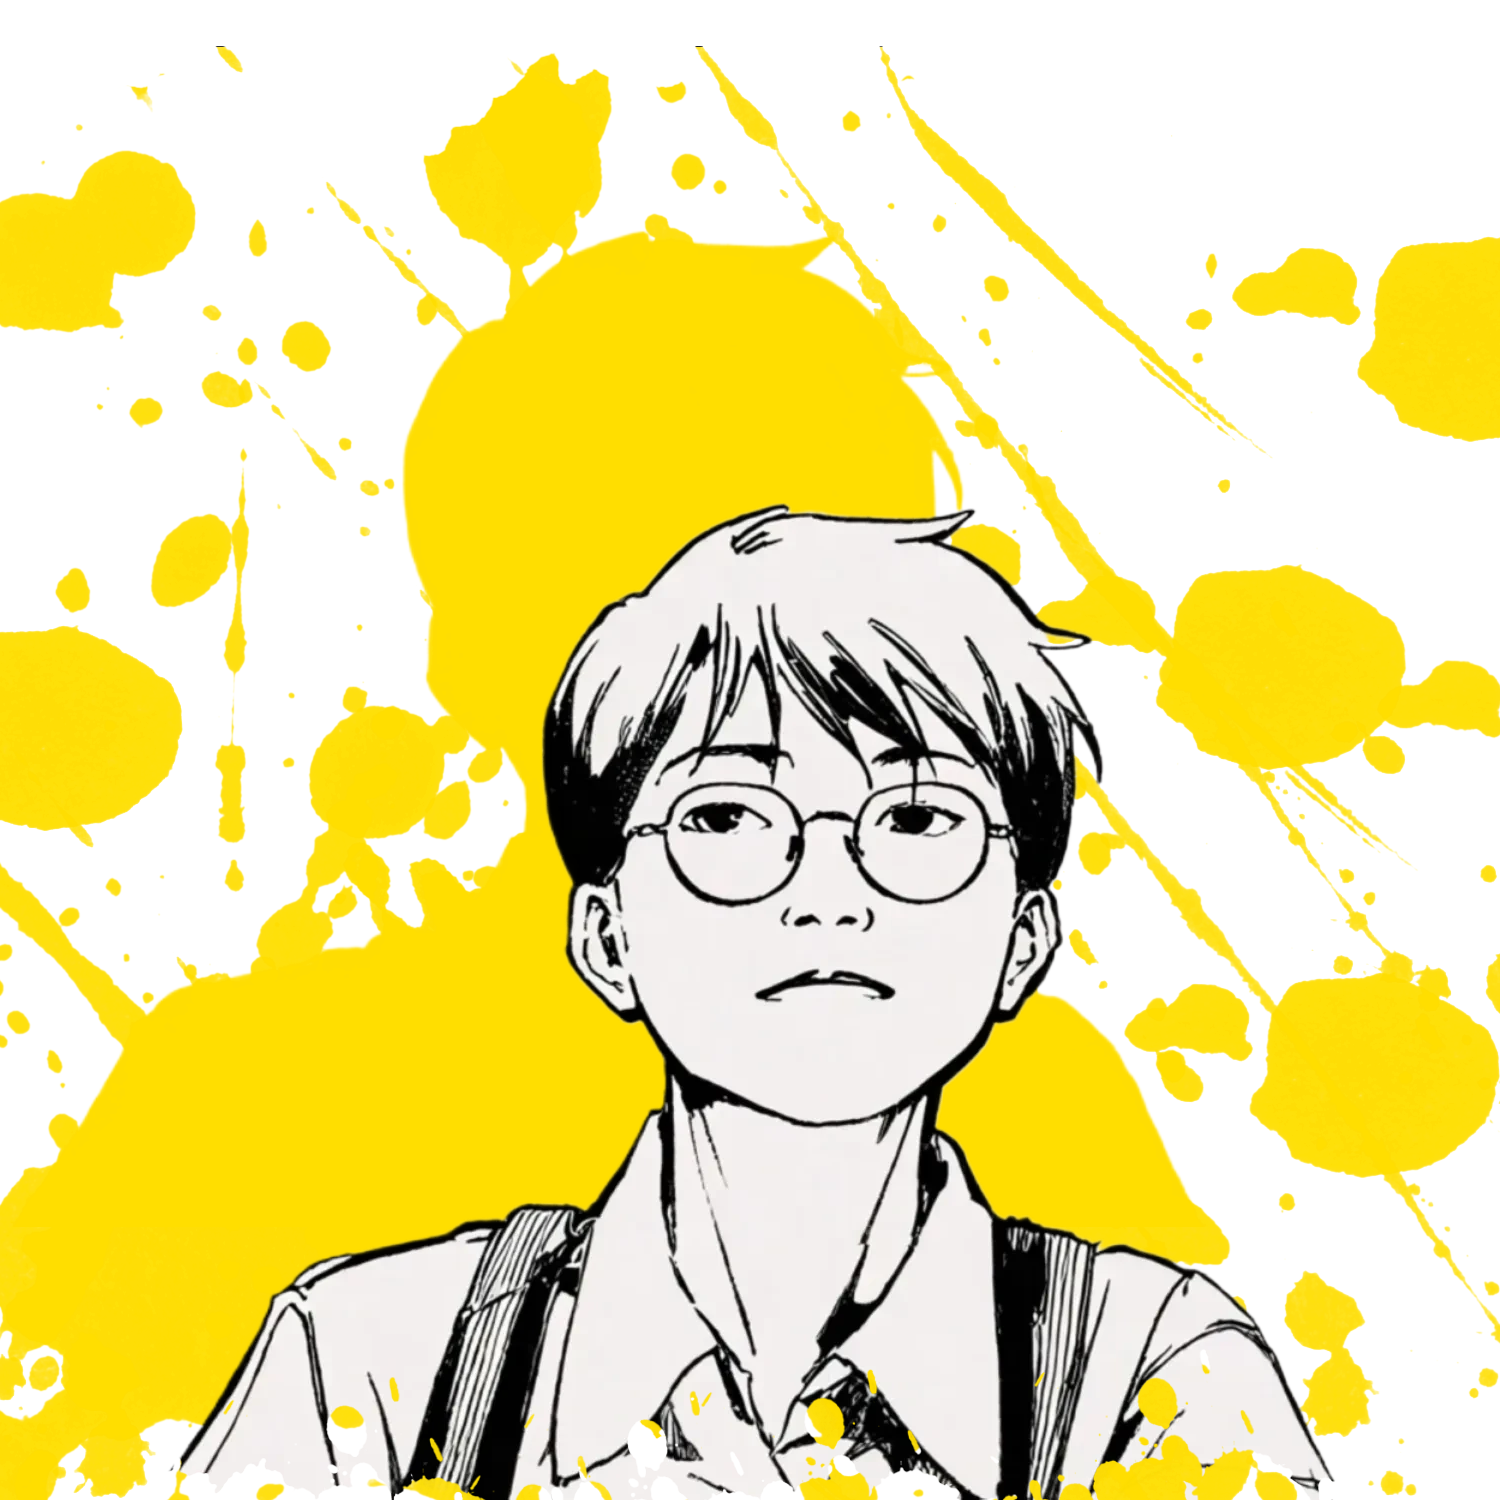
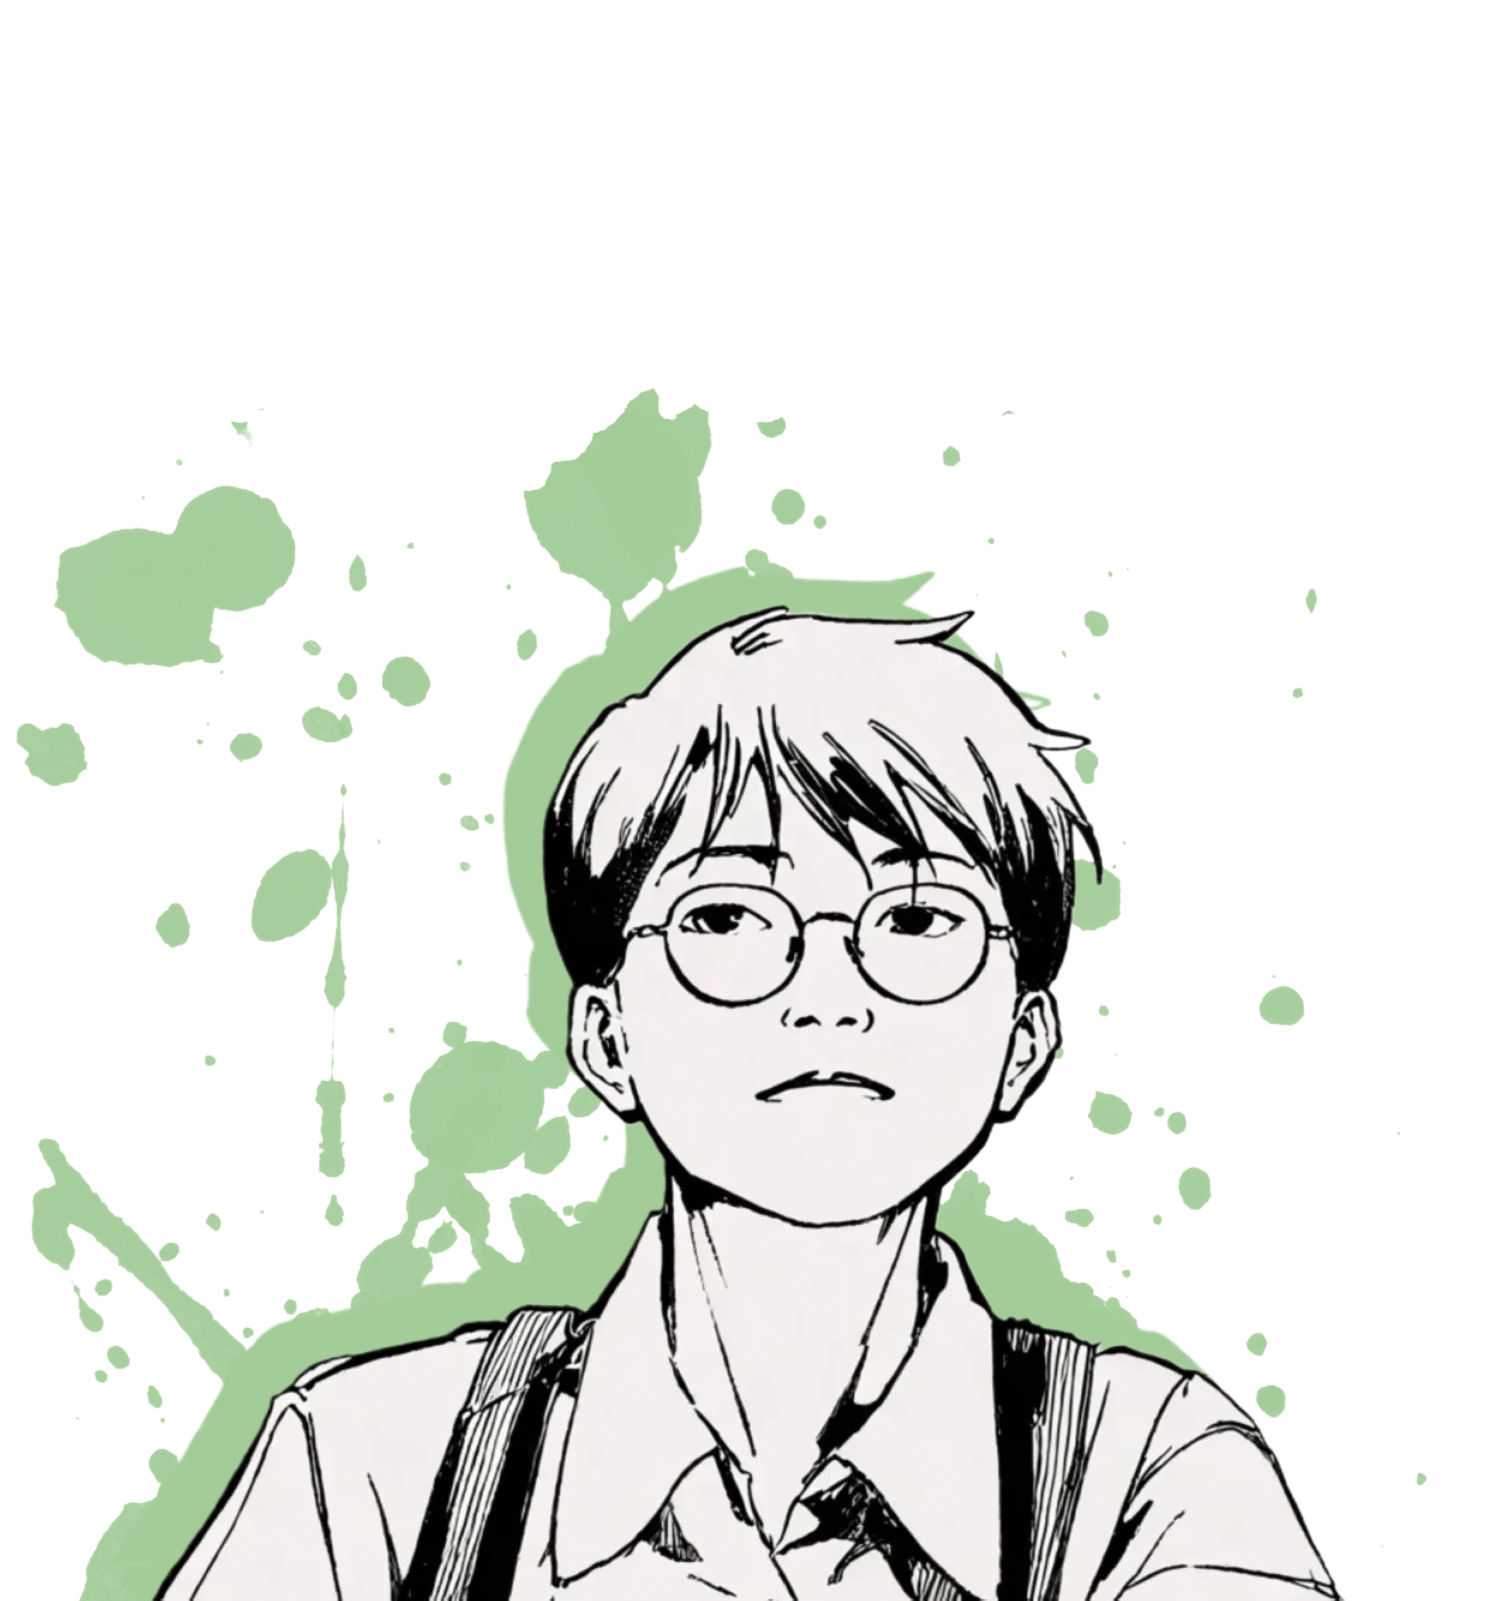
change color and make button cv

diff --git a/index.html b/index.html
@@ -1,7 +1,7 @@
 <!DOCTYPE html>
 <html lang="en">
   <head>
-    <!-- Required meta tags -->
+    <!-- Hitsuyou na meta tagu -->
     <meta charset="utf-8" />
     <meta name="viewport" content="width=device-width, initial-scale=1" />
 
@@ -45,7 +45,7 @@
         </a>
 
         <div
-          class="collapse navbar-collapse justify-content-lg-end  "
+          class="collapse navbar-collapse justify-content-lg-end "
           id="navbarNav"
         >
           <ul class="navbar-nav text-center  ">
@@ -73,34 +73,31 @@
     <!-- nav -->
     <!-- home -->
 
-    <section class="home border-bottom" id="home">
+    <section class="home " id="home" >
       <div class="container ">
         <div class="row align-items-center">
           <div class="col-lg-6 col-md-12     ">
-            <img src="img/hero1.png" class="img-fluid pt-md-5 border   " alt="Home Photo" />
+            <img src="img/hero1.png" class="img-fluid pt-md-5   border " alt="Home Photo" />
           </div>
           
-          <div class="col-lg-6 col-md-12 mt-md-5 pt-md-5 border mt-1 mb-1    ">
+          <div class="col-lg-6 col-md-12 mt-md-5 pt-md-5  mt-1 mb-2  ">
             <h1
-              class=" display-4 responsive-heading text-center  text-dark  b mt-1   "
+              class=" display-4 responsive-heading text-center  text-dark   mt-1 border  "
             >
               Konnichiwa, watashi no namae wa
             </h1>
-            <div class="d-flex justify-content-center align-items-center  " style="height: 60px;" >
+            <div class="d-flex justify-content-center align-items-center  border mb-1 " style="height: 60px;" >
               <h3 id="type" class="text-center text-dark  " ></h3>
             </div>
 
-          <div class="">
-              <p class="">
-                • Watashi wa Kerinchi-yama no fumoto, Jambi ni sundeimasu. Watashi wa UNIVERSITAS PUTRA INDONESIA YPTK Padang de S1 wo sotsugyou shimashita.
+          <div class="border">
+              <p class="tagline text-center">
+                "Mirai o sōzō suru, ippo zutsu"
               </p>
-              <p class="">
-                • Watashi wa Kerinchi-yama no fumoto, Jambi ni sundeimasu.<br>
-                • Watashi wa UNIVERSITAS PUTRA INDONESIA YPTK Padang de S1 wo sotsugyou shimashita.
-              </p>
-              <p class="">
-                • Watashi no shumi wa parkour to free run desu. Watashi wa 4F Air Trick to Core Team Padang no komyuniti ni sanka shita koto ga arimasu.
-              </p>
+              <div class="text-center mt-3">
+                <a href="path/to/your/cv.pdf" class="btn btn-secondary rounded-pill" download style="background-color: rgba(164, 188, 162, 0.996); border: 1px solid #a4bca2fe;">Watashi no CV o daunrōdo</a>
+                <a href="#about" class="btn btn-secondary ms-2 rounded-pill" style="background-color: transparent; border: 1px solid #a4bca2fe; color: #a4bca2fe;">Watashi ni tsuite</a>
+              </div>
           </div>
 
           </div>
@@ -111,56 +108,75 @@
     <!-- home -->
 
 <!-- about -->
-<section class="about border-bottom" id="about">
+<section class="about " id="about">
     <div class="container ">
       <div class="row justify-content-center border mb-1 mt-2   ">
-        <div class="col-12 mt-auto   p-5   mb-1">
-          <h2 class="text-center fw-bold border-bottom " style="font-size: 1.5em;">Abauto</h2>
+        <div class="col-12 mt-auto   p-5   mb-1" >
+          <h2 class="text-center fw-bold border-bottom " style="font-size: 2em;  ">watashi ni tsuite</h2>
         </div>
       </div>
 
       <div class="row ">
-        <div class="col-lg-4 col-md-6 mb-4">
+        <div class="col-lg-4 col-md-6 mb-1">
           <div class="card h-100">
             <div class="card-body">
-              <h5 class="card-title fw-bold" style="font-size: 1.25em;">Hobbies</h5>
-              <p class="card-text">
-                Watashi no shumi wa parukuuru to furiiran desu. Watashi wa 4F AIR TRICK KERINCI no komyuniti ni sanka shita koto ga arimasu.
-              </p>
+              <h5 class="card-title fw-bold text-center" style="font-size: 1.5em;">Purofairu</h5>
+              <a href="javascript:void(0);" class="d-md-none text-center p-2 rounded text-dark mb-3 " data-bs-toggle="collapse" data-bs-target="#profileText" aria-expanded="false" aria-controls="profileText" onclick="toggleIcon(this)" style="background-color: #a4bca2fe; border: none; display: block; width: 100%;">
+                <span aria-hidden="true" class="icon text-light fw-bold fs-5 ">+ </span>
+                <span class="visually-hidden">Tōguru</span>
+              </a>
+              
+              <div class="collapse d-md-block " id="profileText" style="transition: .5s; text-align: justify;">
+                <p class="card-text ">
+                  Hajimemashite, watashi no namae wa Boi Kenri desu. Watashi wa 2002 nen 1 gatsu 1 nichi ni umaremashita. Watashi wa Kerinchi-yama no fumoto kara kimashita. Romaji
+                </p>
+              </div>
             </div>
           </div>
         </div>
-     
-        <div class="col-lg-4 col-md-6 mb-4">
+        <div class="col-lg-4 col-md-6 mb-1">
           <div class="card h-100">
             <div class="card-body">
-              <h5 class="card-title fw-bold" style="font-size: 1.25em;">Hobbies</h5>
-              <p class="card-text">
-                Watashi no shumi wa parukuuru to furiiran desu. Watashi wa 4F AIR TRICK KERINCI no komyuniti ni sanka shita koto ga arimasu.
-              </p>
+              <h5 class="card-title fw-bold text-center" style="font-size: 1.5em;">Kyouiku</h5>
+              <a href="javascript:void(0);" class="d-md-none text-center p-2 rounded text-dark mb-3" data-bs-toggle="collapse" data-bs-target="#educationText" aria-expanded="false" aria-controls="educationText" onclick="toggleIcon(this)" style="background-color: #a4bca2fe; border: none; display: block; width: 100%;">
+                <span aria-hidden="true" class="icon text-light fw-bold fs-5 ">+</span>
+                <span class="visually-hidden">Tōguru</span>
+              </a>
+              
+              <div class="collapse d-md-block" id="educationText" style="transition: .5s; text-align: justify;">
+                <p class="card-text">
+                  Watashi wa UNIVERSITAS PUTRA INDONESIA YPTK Padang de S1 wo sotsugyou shimashita.
+                </p>
+              </div>
             </div>
           </div>
         </div>
-        <div class="col-lg-4 col-md-12 mb-4">
+        <div class="col-lg-4 col-md-6 mb-4 mb-1">
           <div class="card h-100">
             <div class="card-body">
-              <h5 class="card-title fw-bold" style="font-size: 1.25em;">Passion</h5>
-              <p class="card-text">
-                Watashi wa gijutsu ni jyounetsu ga ari, itsumo atarashii koto wo manabu koto ni ikigai wo kanjimasu.
-              </p>
+              <h5 class="card-title fw-bold text-center" style="font-size: 1.5em;">Shumi</h5>
+              <a href="javascript:void(0);" class="d-md-none text-center p-2 rounded text-dark mb-3" data-bs-toggle="collapse" data-bs-target="#hobbiesText" aria-expanded="false" aria-controls="hobbiesText" onclick="toggleIcon(this)" style="background-color: #a4bca2fe; border: none; display: block; width: 100%;">
+                <span aria-hidden="true" class="icon text-light fw-bold fs-5 ">+ </span>
+                <span class="visually-hidden">Tōguru</span>
+              </a>
+              
+              <div class="collapse d-md-block" id="hobbiesText" style="transition: .5s; text-align: justify;">
+                <p class="card-text">
+                  Watashi wa e o kaku koto, ryokou, to dokusho ga daisuki desu.
+                </p>
+              </div>
             </div>
           </div>
         </div>
-      </div>
     </div> 
   </section>
 <!-- about -->
 <!-- portfolio -->
-<section class="portfolio border-bottom" id="portfolio">
+<section class="portfolio " id="portfolio">
   <div class="container">
     <div class="row justify-content-center">
-      <div class="col-12  p-5  mb-2  mb-1 ">
-        <h2 class="text-center fw-bold border-bottom" style="font-size: 1.5em;">Purojekuto</h2>
+      <div class="col-12  p-5  mb-2  mb-1 border  ">
+        <h2 class="text-center fw-bold border-bottom" style="font-size: 2em;">Purojekuto</h2>
       </div>
     </div>
     <div class="row">
@@ -168,7 +184,7 @@
         <div class="card h-100">
           <img src="img/project.jpg" class="card-img-top" alt="Purojekuto Imeji 1">
           <div class="card-body">
-            <h5 class="card-title fw-bold" style="font-size: 1.25em;">Purojekuto 1</h5>
+            <h5 class="card-title fw-bold" style="font-size: 1.5em;">Purojekuto 1</h5>
             <p class="card-text">Purojekuto 1 no setsumei.</p>
           </div>
         </div>
@@ -177,7 +193,7 @@
         <div class="card h-100">
           <img src="img/project.jpg" class="card-img-top" alt="Purojekuto Imeji 2">
           <div class="card-body">
-            <h5 class="card-title fw-bold" style="font-size: 1.25em;">Purojekuto 2</h5>
+            <h5 class="card-title fw-bold" style="font-size: 1.5em;">Purojekuto 2</h5>
             <p class="card-text">Purojekuto 2 no setsumei.</p>
           </div>
         </div>
@@ -186,7 +202,7 @@
         <div class="card h-100">
           <img src="img/project.jpg" class="card-img-top" alt="Purojekuto Imeji 3">
           <div class="card-body">
-            <h5 class="card-title fw-bold" style="font-size: 1.25em;">Purojekuto 3</h5>
+            <h5 class="card-title fw-bold" style="font-size: 1.5em;">Purojekuto 3</h5>
             <p class="card-text">Purojekuto 3 no setsumei.</p>
           </div>
         </div>
@@ -197,16 +213,16 @@
 
 <!-- portfolio -->
 <!-- skill -->
-<section class="skills border-bottom" id="skill">
+<section class="skills " id="skill">
   <div class="container ">
     <div class="row justify-content-center">
-      <div class="col-12  p-5   mb-1 ">
-        <h2 class="text-center fw-bold border-bottom" style="font-size: 1.5em;">Sukiru</h2>
+      <div class="col-12  p-5   mb-1 border  ">
+        <h2 class="text-center fw-bold border-bottom" style="font-size: 2em;">Sukiru</h2>
       </div>
     </div>
     <div class="row ">
-      <div class="col-md-6 mb-4 border-top border-bottom  ">
-        <h4 class="text-center fw-bold border mt-1  p-2" style="font-size: 1.25em;">Puroguramingu Sukiru</h4>
+      <div class="col-md-6 mb-4   ">
+        <h4 class="text-center fw-bold border mt-1  p-2" style="font-size: 1.5em;">Puroguramingu Sukiru</h4>
         <div class="progress mb-3">
           <div class="progress-bar" role="progressbar" style="width: 90%; background-color: #a4bca2fe;" aria-valuenow="90" aria-valuemin="0" aria-valuemax="100">HTML</div>
         </div>
@@ -223,8 +239,8 @@
           <div class="progress-bar" role="progressbar" style="width: 70%; background-color: #a4bca2fe;" aria-valuenow="70" aria-valuemin="0" aria-valuemax="100">Tailwind</div>
         </div>
       </div>
-      <div class="col-md-6 border-top  ">
-        <h4 class="text-center fw-bold border p-2 mt-1 " style="font-size: 1.25em;">Sofutowea Sukiru</h4>
+      <div class="col-md-6  ">
+        <h4 class="text-center fw-bold border p-2 mt-1 " style="font-size: 1.5em;">Sofutowea Sukiru</h4>
         <div class="progress mb-3">
           <div class="progress-bar" role="progressbar" style="width: 90%; background-color: #a4bca2fe;" aria-valuenow="90" aria-valuemin="0" aria-valuemax="100">MS Word</div>
         </div>
@@ -258,8 +274,8 @@
 <section id="contact" class="contact border-bottom">
   <div class="container">
     <div class="row justify-content-center">
-        <div class="col-12  p-5    mb-1 ">
-          <h2 class="text-center fw-bold border-bottom" style="font-size: 1.5em;">Kontaakuto</h2>
+        <div class="col-12  p-5   border mb-1 ">
+          <h2 class="text-center fw-bold border-bottom" style="font-size: 2em;">Kontaakuto</h2>
         </div>
       </div>
     <div class="row ">
@@ -273,7 +289,7 @@
             <label for="message" class="form-label">Messeeji</label>
             <textarea class="form-control" id="message" rows="3" placeholder="Anata no Messeeji"></textarea>
           </div>
-          <button type="submit" class="btn mb-3" style="background-color: #a4bca2fe;" class="mb-2">Sōshin</button>
+          <button type="submit" class="btn mb-3 text-light" style="background-color: #a4bca2fe;" class="mb-2">Sōshin</button>
         </form>
       </div>
     </div>
@@ -282,7 +298,7 @@
 
 <!-- contact -->
 <!-- footer -->
-<footer class="bg-dark text-white pt-4 mt-5 border-top">
+<footer class=" text-white pt-4 mt-5 border-top" style="background-color: #a4bca2fe;">
   <div class="container">
     <div class="row">
       <div class="col-md-4">
@@ -411,6 +427,15 @@
 <script src="node_modules/slick-carousel/slick/slick.min.js"></script>
 <script src="node_modules/slick-carousel/slick/slick-theme.min.js"></script>
 <script>$('.single-item').slick();</script>
-    
+<script>
+  function toggleIcon(button) {
+    const icon = button.querySelector('.icon');
+    if (button.getAttribute('aria-expanded') === 'true') {
+      icon.innerHTML = '<i class="bx bx-x fw-bold"></i>';
+    } else {
+      icon.innerHTML = '<i class="bx bx-plus fw-bold"></i>';
+    }
+  }
+</script>
   </body>
 </html>

diff --git a/css/style.css b/css/style.css
@@ -1,13 +1,10 @@
 @import url("https://fonts.googleapis.com/css2?family=Poppins:wght@400;700&display=swap");
 @import url("https://fonts.googleapis.com/css2?family=Poetsen+One&display=swap");
-.text-center {
-  font-family: "Poetsen One", "Poppins";
 
-  border-radius: ;
-}
 * {
   font-family: "Poppins", sans-serif;
 }
+
 a {
   text-decoration: none;
 }
@@ -17,6 +14,12 @@ nav {
 .nav-item:hover,
 .navbar-brand:hover {
   background-color: #a4bca2fe; /* Bootstrap warning color */
+}
+#navbarNav {
+  transition: 0.5s;
+}
+.btn {
+  margin-bottom: 10px;
 }
 
 .bar1,
